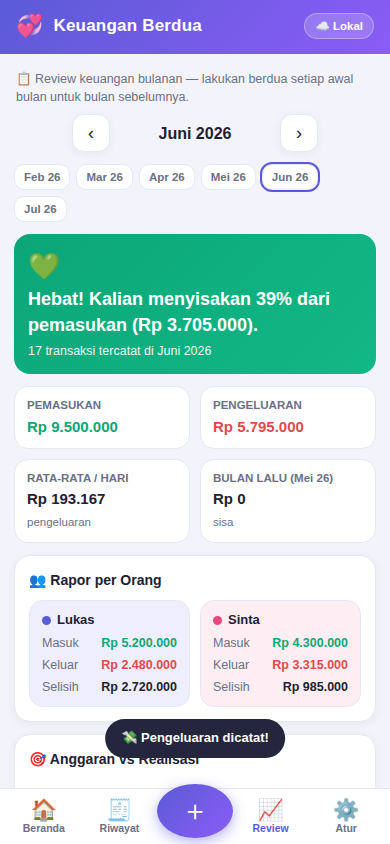
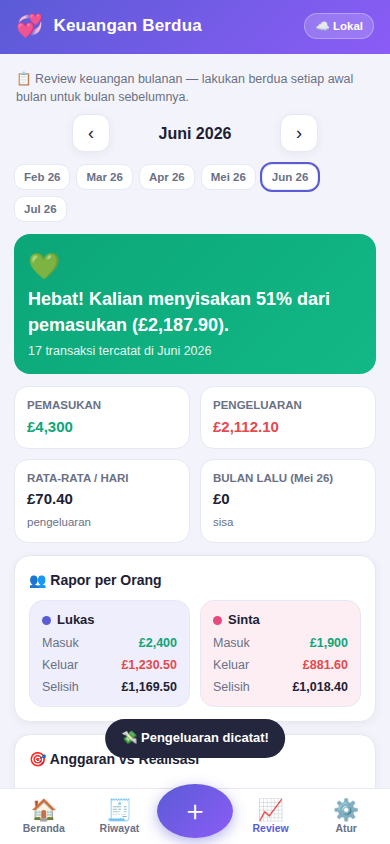
Switch Keuangan Berdua currency to pound sterling (GBP)
Amounts now display as £ with proper pence formatting (en-GB grouping,
two decimals shown only when fractional). The amount inputs accept
decimals, demo data uses realistic UK household figures, and the app
icon shows £. Currency is a synced setting (Atur → Profil) so a couple
can still switch to Rupiah; docs updated accordingly.

Claude-Session: https://claude.ai/code/session_014wkPnrCu6CWC52eXcwjijP

diff --git a/keuangan/index.html b/keuangan/index.html
@@ -236,9 +236,20 @@ a{color:var(--pri)}
    ===================================================================== */
 const $=s=>document.querySelector(s), $$=s=>[...document.querySelectorAll(s)];
 const esc=s=>String(s??'').replace(/[&<>"']/g,c=>({'&':'&amp;','<':'&lt;','>':'&gt;','"':'&quot;',"'":'&#39;'}[c]));
-const rp=n=>'Rp '+Math.round(Math.abs(Number(n)||0)).toLocaleString('id-ID');
+/* mata uang: £ (bawaan, dengan pence) atau Rp — bisa diganti di Atur → Profil */
+const CURS={GBP:{sym:'£', locale:'en-GB', dec:2}, IDR:{sym:'Rp ', locale:'id-ID', dec:0}};
+const cur=()=>CURS[(S.settings&&S.settings.currency)||'GBP']||CURS.GBP;
+const rp=n=>{const c=cur(), v=Math.abs(Number(n)||0), fr=c.dec>0&&Math.round(v*100)%100!==0;
+  return c.sym+v.toLocaleString(c.locale,{minimumFractionDigits:fr?2:0, maximumFractionDigits:c.dec});};
 const rpS=n=>(n<0?'−':'')+rp(n);
-const num=v=>Number(String(v).replace(/[^\d]/g,''))||0;
+const num=v=>{
+  const c=cur(), s=String(v);
+  if(c.dec===0) return Number(s.replace(/[^\d]/g,''))||0;
+  const n=parseFloat(s.replace(/[^\d.]/g,''));
+  return isFinite(n)&&n>0?Math.round(n*100)/100:0;
+};
+const amtStr=n=>{const c=cur(), v=Number(n)||0, fr=c.dec>0&&Math.round(v*100)%100!==0;
+  return v?v.toLocaleString(c.locale,{minimumFractionDigits:fr?2:0, maximumFractionDigits:c.dec}):'';};
 const MON=['Januari','Februari','Maret','April','Mei','Juni','Juli','Agustus','September','Oktober','November','Desember'];
 const DAY=['Minggu','Senin','Selasa','Rabu','Kamis','Jumat','Sabtu'];
 const pad=n=>String(n).padStart(2,'0');
@@ -272,10 +283,10 @@ function defaultCats(){return [
 /* ---------- state ---------- */
 const LSK='keuanganBerdua.v1';      // data bersama (ikut tersinkron)
 const LSL='keuanganBerdua.loc.v1';  // khusus perangkat ini (identitas HP)
-let S={ settings:{nameA:'Orang 1', nameB:'Orang 2', sync:{enabled:false, apiKey:'', projectId:'', coupleId:''}}, categories:defaultCats(), tx:[], reviews:{} };
+let S={ settings:{nameA:'Orang 1', nameB:'Orang 2', currency:'GBP', sync:{enabled:false, apiKey:'', projectId:'', coupleId:''}}, categories:defaultCats(), tx:[], reviews:{} };
 let L={ me:'a', deviceId:rid(8), setupDone:false };
 function load(){
-  try{const j=JSON.parse(localStorage.getItem(LSK)); if(j&&j.settings){S=j; S.tx=S.tx||[]; S.reviews=S.reviews||{}; S.categories=S.categories&&S.categories.length?S.categories:defaultCats(); S.settings.sync=S.settings.sync||{enabled:false,apiKey:'',projectId:'',coupleId:''};}}catch(e){}
+  try{const j=JSON.parse(localStorage.getItem(LSK)); if(j&&j.settings){S=j; S.tx=S.tx||[]; S.reviews=S.reviews||{}; S.categories=S.categories&&S.categories.length?S.categories:defaultCats(); S.settings.sync=S.settings.sync||{enabled:false,apiKey:'',projectId:'',coupleId:''}; S.settings.currency=S.settings.currency||'GBP';}}catch(e){}
   try{const j=JSON.parse(localStorage.getItem(LSL)); if(j&&j.deviceId)L=j;}catch(e){}
 }
 function save(){ localStorage.setItem(LSK, JSON.stringify(S)); }
@@ -489,7 +500,7 @@ function vReview(){
   // catatan review + tandai selesai
   h+=`<div class="card"><h2>✍ Catatan & Kesepakatan Review</h2>
     ${rv.done?`<div class="donebadge">✅ Review ${esc(mLabel(k))} selesai — ditandai oleh ${esc(nameOf(rv.by||'a'))}${rv.doneAt?', '+new Date(rv.doneAt).toLocaleDateString('id-ID',{day:'numeric',month:'short',year:'numeric'}):''}</div>`:''}
-    <textarea id="revNote" rows="4" placeholder="Tulis hasil diskusi kalian… contoh: 'Bulan depan jatah jajan kopi maks 300rb', 'Naikkan tabungan jadi 1,5jt'." oninput="revNote('${k}',this)">${esc(rv.note||'')}</textarea>
+    <textarea id="revNote" rows="4" placeholder="Tulis hasil diskusi kalian… contoh: 'Bulan depan jatah ngopi dikurangi separuh', 'Naikkan setoran tabungan bulanan'." oninput="revNote('${k}',this)">${esc(rv.note||'')}</textarea>
     <div style="margin-top:10px">${rv.done
       ?`<button class="btn ghost" onclick="revDone('${k}',true)">↩ Buka lagi review ini</button>`
       :`<button class="btn green" onclick="revDone('${k}',false)">✅ Tandai Review Selesai (oleh ${esc(nameOf(L.me))})</button>`}</div>
@@ -528,6 +539,13 @@ function vSet(){
         <button class="${L.me==='b'?'on':''}" onclick="setMe('b')">${esc(nameOf('b'))}</button>
       </div>
       <div class="tiny mut" style="margin-top:6px">Pilihan ini hanya untuk HP ini — di HP pasanganmu pilih nama yang satunya.</div>
+    </div>
+    <div class="field"><label>Mata uang</label>
+      <div class="seg">
+        <button class="${S.settings.currency!=='IDR'?'on':''}" onclick="setCur('GBP')">£ Poundsterling</button>
+        <button class="${S.settings.currency==='IDR'?'on':''}" onclick="setCur('IDR')">Rp Rupiah</button>
+      </div>
+      <div class="tiny mut" style="margin-top:6px">Berlaku untuk kalian berdua (ikut tersinkron). Nominal yang sudah tercatat tidak dikonversi otomatis.</div>
     </div>
   </div>
 
@@ -579,6 +597,7 @@ window.saveNames=()=>{
   save(); queueSync('settings'); render();
 };
 window.setMe=w=>{ L.me=w; saveL(); render(); toast('HP ini sekarang milik '+nameOf(w)); };
+window.setCur=c=>{ S.settings.currency=c; save(); queueSync('settings'); render(); toast('Mata uang: '+(c==='IDR'?'Rupiah (Rp)':'Poundsterling (£)')); };
 window.copyCid=()=>{
   const v=$('#syCid').value.trim(); if(!v) return toast('Belum ada ID.');
   (navigator.clipboard?navigator.clipboard.writeText(v):Promise.reject()).then(()=>toast('📋 ID disalin — kirim ke pasanganmu.'),()=>toast('Salin manual: '+v));
@@ -605,8 +624,8 @@ function drawTxModal(){
     <button class="${MT.type==='out'?'on tout':''}" onclick="mtType('out')">💸 Pengeluaran</button>
     <button class="${MT.type==='in'?'on tin':''}" onclick="mtType('in')">💰 Pemasukan</button>
   </div>
-  <div class="field"><input id="mtAmt" class="amount" inputmode="numeric" placeholder="0"
-    value="${MT.amount?Number(MT.amount).toLocaleString('id-ID'):''}" oninput="fmtAmt(this)"></div>
+  <div class="field"><input id="mtAmt" class="amount" inputmode="${cur().dec?'decimal':'numeric'}" placeholder="${cur().sym.trim()} 0"
+    value="${amtStr(MT.amount)}" oninput="fmtAmt(this)"></div>
   <div class="field"><label>Kategori</label><div class="catgrid" id="mtCats"></div></div>
   <div class="grid2">
     <div class="field"><label>Tanggal</label><input type="date" id="mtDate" value="${esc(MT.date)}"></div>
@@ -632,7 +651,17 @@ window.mtType=t=>{ MT.type=t; keepMt(); drawTxModal(); };
 window.mtWho=w=>{ MT.who=w; keepMt(); drawTxModal(); };
 window.mtCat=id=>{ MT.catId=id; drawMtCats(); };
 function keepMt(){ MT.amount=num($('#mtAmt').value); MT.date=$('#mtDate').value; MT.note=$('#mtNote').value; }
-window.fmtAmt=el=>{ const d=el.value.replace(/[^\d]/g,''); el.value=d?Number(d).toLocaleString('id-ID'):''; };
+window.fmtAmt=el=>{
+  const c=cur();
+  if(c.dec===0){ const d=el.value.replace(/[^\d]/g,''); el.value=d?Number(d).toLocaleString(c.locale):''; return; }
+  // £: izinkan satu titik desimal (maks 2 angka pence), beri pemisah ribuan pada bagian bulat
+  let v=el.value.replace(/[^\d.]/g,'');
+  const i=v.indexOf('.');
+  if(i>=0) v=v.slice(0,i+1)+v.slice(i+1).replace(/\./g,'').slice(0,2);
+  const p=v.split('.');
+  p[0]=p[0]?Number(p[0]).toLocaleString('en-GB'):'';
+  el.value=p.length>1?p[0]+'.'+p[1]:p[0];
+};
 window.saveTx=()=>{
   const amount=num($('#mtAmt').value);
   if(amount<=0) return toast('Isi dulu nominalnya ya 🙏');
@@ -677,8 +706,8 @@ function drawCatModal(c){
     <div class="field"><label>Emoji ikon</label><input id="mcIcon" value="${esc(c?c.icon:'🏷')}" maxlength="4"></div>
     <div class="field"><label>Nama kategori</label><input id="mcName" value="${esc(c?c.name:'')}" placeholder="cth: Kopi & Nongkrong"></div>
   </div>
-  <div class="field" style="${MC.type==='in'?'display:none':''}"><label>Anggaran per bulan (Rp, 0 = tanpa anggaran)</label>
-    <input id="mcBud" inputmode="numeric" value="${c&&c.budget?Number(c.budget).toLocaleString('id-ID'):''}" placeholder="cth: 1.500.000" oninput="fmtAmt(this)"></div>
+  <div class="field" style="${MC.type==='in'?'display:none':''}"><label>Anggaran per bulan (${cur().sym.trim()}, kosong = tanpa anggaran)</label>
+    <input id="mcBud" inputmode="${cur().dec?'decimal':'numeric'}" value="${amtStr(c?c.budget:0)}" placeholder="${cur().dec?'cth: 1,500':'cth: 1.500.000'}" oninput="fmtAmt(this)"></div>
   <button class="btn" onclick="saveCat()">💾 Simpan</button>
   ${c?`<button class="btn danger" style="margin-top:8px" onclick="delCat('${esc(c.id)}')" ${used?'disabled title="Masih dipakai transaksi"':''}>🗑 Hapus kategori${used?' (masih dipakai transaksi)':''}</button>`:''}`;
 }
@@ -801,7 +830,7 @@ function pushKV(id){
   let data;
   if(id==='categories') data=S.categories;
   else if(id==='reviews') data=S.reviews;
-  else if(id==='settings') data={nameA:S.settings.nameA, nameB:S.settings.nameB};
+  else if(id==='settings') data={nameA:S.settings.nameA, nameB:S.settings.nameB, currency:S.settings.currency};
   SYNC.db.doc(kvPath(id)).set({j:JSON.stringify(data), dev:L.deviceId, at:Date.now()})
     .then(()=>setSyncBadge('on'))
     .catch(e=>setSyncBadge('err','☁ Gagal kirim: '+e.message));
@@ -828,7 +857,7 @@ function listenCloud(){
       if(val==null) return;
       const id=ch.doc.id;
       if(id==='categories'){ S.categories=val; changed=true; }
-      else if(id==='settings'){ Object.assign(S.settings,{nameA:val.nameA??S.settings.nameA, nameB:val.nameB??S.settings.nameB}); changed=true; }
+      else if(id==='settings'){ Object.assign(S.settings,{nameA:val.nameA??S.settings.nameA, nameB:val.nameB??S.settings.nameB, currency:val.currency??S.settings.currency}); changed=true; }
       else if(id==='reviews'){
         for(const k in val){ const cur=S.reviews[k]; if(!cur||(val[k].at||0)>=(cur.at||0)) S.reviews[k]=val[k]; }
         changed=true;
@@ -865,7 +894,7 @@ function remoteRefresh(){
 /* ---------- ekspor / impor / demo / hapus ---------- */
 window.exportJson=()=>{
   const data={app:'keuangan-berdua', version:1, exportedAt:new Date().toISOString(),
-    settings:{nameA:S.settings.nameA, nameB:S.settings.nameB},
+    settings:{nameA:S.settings.nameA, nameB:S.settings.nameB, currency:S.settings.currency},
     categories:S.categories, tx:S.tx, reviews:S.reviews};
   const blob=new Blob([JSON.stringify(data,null,2)],{type:'application/json'});
   const a=document.createElement('a');
@@ -883,7 +912,7 @@ window.importJson=inp=>{
       if(!Array.isArray(d.tx)||!Array.isArray(d.categories)) throw new Error('format tidak dikenal');
       if(!confirm('Impor akan MENGGANTI data di HP ini dengan isi file ('+d.tx.length+' transaksi). Lanjutkan?')) return;
       S.categories=d.categories; S.tx=d.tx; S.reviews=d.reviews||{};
-      if(d.settings){ S.settings.nameA=d.settings.nameA||S.settings.nameA; S.settings.nameB=d.settings.nameB||S.settings.nameB; }
+      if(d.settings){ S.settings.nameA=d.settings.nameA||S.settings.nameA; S.settings.nameB=d.settings.nameB||S.settings.nameB; S.settings.currency=d.settings.currency||S.settings.currency; }
       save(); render(); toast('⬆ Data berhasil diimpor.');
       if(SYNC.on) pushAllToCloud();
     }catch(e){ toast('❌ File tidak valid: '+e.message); }
@@ -909,45 +938,46 @@ window.wipeAll=async()=>{
 };
 window.fillDemo=()=>{
   if(S.tx.length&&!confirm('Tambahkan data contoh ke catatan yang sudah ada?')) return;
-  const cur=mkeyNow(), prv=mAdd(cur,-1);
+  const cur_=mkeyNow(), prv=mAdd(cur_,-1);
   const D=(mk,day)=>mk+'-'+pad(day);
+  const A=(gbp,idr)=>cur().dec>0?gbp:idr; // nominal contoh mengikuti mata uang aktif
   const mk=(date,type,catId,who,amount,note)=>({id:'demo-'+rid(8), date, type, catId, who, amount, note, at:Date.now()});
   const demo=[
     // bulan lalu (lengkap — bahan untuk review)
-    mk(D(prv,1),'in','gaji','a',5200000,'Gaji bulanan'),
-    mk(D(prv,1),'in','gaji','b',4300000,'Gaji bulanan'),
-    mk(D(prv,2),'out','rumah','a',1500000,'Sewa kontrakan'),
-    mk(D(prv,3),'out','nabung','b',1000000,'Transfer tabungan bersama'),
-    mk(D(prv,4),'out','tagihan','b',350000,'Listrik & air'),
-    mk(D(prv,5),'out','tagihan','a',150000,'Paket data 2 HP'),
-    mk(D(prv,6),'out','belanja','b',480000,'Belanja mingguan'),
-    mk(D(prv,9),'out','makan','a',85000,'Makan di luar'),
-    mk(D(prv,12),'out','transport','a',200000,'Bensin motor'),
-    mk(D(prv,13),'out','belanja','b',450000,'Belanja mingguan'),
-    mk(D(prv,15),'out','hiburan','b',120000,'Nonton bioskop'),
-    mk(D(prv,18),'out','sehat','a',95000,'Obat & vitamin'),
-    mk(D(prv,20),'out','belanja','b',430000,'Belanja mingguan'),
-    mk(D(prv,22),'out','makan','b',65000,'Jajan kopi'),
-    mk(D(prv,25),'out','keluarga','a',300000,'Kado orang tua'),
-    mk(D(prv,27),'out','belanja','b',420000,'Belanja mingguan'),
-    mk(D(prv,28),'out','hiburan','a',150000,'Makan malam berdua'),
+    mk(D(prv,1),'in','gaji','a',A(2400,5200000),'Gaji bulanan'),
+    mk(D(prv,1),'in','gaji','b',A(1900,4300000),'Gaji bulanan'),
+    mk(D(prv,2),'out','rumah','a',A(950,1500000),'Sewa rumah'),
+    mk(D(prv,3),'out','nabung','b',A(400,1000000),'Transfer tabungan bersama'),
+    mk(D(prv,4),'out','tagihan','b',A(120,350000),'Listrik & air'),
+    mk(D(prv,5),'out','tagihan','a',A(40,150000),'Paket data 2 HP'),
+    mk(D(prv,6),'out','belanja','b',A(86.50,480000),'Belanja mingguan'),
+    mk(D(prv,9),'out','makan','a',A(28,85000),'Makan di luar'),
+    mk(D(prv,12),'out','transport','a',A(60,200000),'Bensin'),
+    mk(D(prv,13),'out','belanja','b',A(81.20,450000),'Belanja mingguan'),
+    mk(D(prv,15),'out','hiburan','b',A(30,120000),'Nonton bioskop'),
+    mk(D(prv,18),'out','sehat','a',A(22.50,95000),'Obat & vitamin'),
+    mk(D(prv,20),'out','belanja','b',A(78.40,430000),'Belanja mingguan'),
+    mk(D(prv,22),'out','makan','b',A(9.50,65000),'Jajan kopi'),
+    mk(D(prv,25),'out','keluarga','a',A(75,300000),'Kado orang tua'),
+    mk(D(prv,27),'out','belanja','b',A(76,420000),'Belanja mingguan'),
+    mk(D(prv,28),'out','hiburan','a',A(55,150000),'Makan malam berdua'),
     // bulan berjalan
-    mk(D(cur,1),'in','gaji','a',5200000,'Gaji bulanan'),
-    mk(D(cur,1),'in','gaji','b',4300000,'Gaji bulanan'),
-    mk(D(cur,2),'out','rumah','a',1500000,'Sewa kontrakan'),
-    mk(D(cur,3),'out','nabung','b',1200000,'Transfer tabungan bersama'),
-    mk(D(cur,4),'out','tagihan','b',340000,'Listrik & air'),
-    mk(D(cur,6),'out','belanja','b',470000,'Belanja mingguan'),
-    mk(D(cur,8),'out','transport','a',150000,'Bensin motor'),
-    mk(D(cur,10),'out','makan','a',75000,'Makan siang kantor'),
-    mk(D(cur,13),'out','belanja','b',455000,'Belanja mingguan'),
-    mk(D(cur,15),'out','hiburan','b',90000,'Jajan weekend'),
+    mk(D(cur_,1),'in','gaji','a',A(2400,5200000),'Gaji bulanan'),
+    mk(D(cur_,1),'in','gaji','b',A(1900,4300000),'Gaji bulanan'),
+    mk(D(cur_,2),'out','rumah','a',A(950,1500000),'Sewa rumah'),
+    mk(D(cur_,3),'out','nabung','b',A(450,1200000),'Transfer tabungan bersama'),
+    mk(D(cur_,4),'out','tagihan','b',A(115,340000),'Listrik & air'),
+    mk(D(cur_,6),'out','belanja','b',A(83.70,470000),'Belanja mingguan'),
+    mk(D(cur_,8),'out','transport','a',A(45,150000),'Bensin'),
+    mk(D(cur_,10),'out','makan','a',A(14.50,75000),'Makan siang kantor'),
+    mk(D(cur_,13),'out','belanja','b',A(79.90,455000),'Belanja mingguan'),
+    mk(D(cur_,15),'out','hiburan','b',A(25,90000),'Jajan weekend'),
   ].filter(t=>t.date<=todayStr()||t.date.slice(0,7)===prv);
   S.tx.push(...demo);
   // contoh anggaran
   const setBud=(id,v)=>{const c=S.categories.find(x=>x.id===id); if(c&&!c.budget)c.budget=v;};
-  setBud('makan',400000); setBud('belanja',2000000); setBud('transport',400000);
-  setBud('tagihan',600000); setBud('hiburan',300000); setBud('nabung',1500000);
+  setBud('makan',A(150,400000)); setBud('belanja',A(400,2000000)); setBud('transport',A(120,400000));
+  setBud('tagihan',A(200,600000)); setBud('hiburan',A(120,300000)); setBud('nabung',A(500,1500000));
   save(); queueSync('categories');
   if(SYNC.on) for(const t of demo) pushTxCloud(t);
   render(); toast('🎬 Data contoh dimuat — jelajahi Beranda, Riwayat, dan Review!');

diff --git a/README.md b/README.md
@@ -1,6 +1,7 @@
 > 💞 **Baru:** [**Keuangan Berdua**](keuangan/) — aplikasi catatan keuangan bulanan untuk **dua
-> orang dengan dua HP**, lengkap dengan anggaran per kategori, sinkronisasi real-time, dan
-> **review setiap bulan**. Panduan: [keuangan/PANDUAN_KEUANGAN.md](keuangan/PANDUAN_KEUANGAN.md).
+> orang dengan dua HP**, dalam **poundsterling (£)**, lengkap dengan anggaran per kategori,
+> sinkronisasi real-time, dan **review setiap bulan**.
+> Panduan: [keuangan/PANDUAN_KEUANGAN.md](keuangan/PANDUAN_KEUANGAN.md).
 
 # 🍽 Warung COGS — Kalkulator HPP & Kasir Restoran
 

diff --git a/keuangan/PANDUAN_KEUANGAN.md b/keuangan/PANDUAN_KEUANGAN.md
@@ -32,6 +32,11 @@ Saat pertama dibuka, aplikasi menanyakan:
 
 Semua ini bisa diubah kapan saja lewat **Atur → Profil Berdua**.
 
+**Mata uang bawaannya poundsterling (£)** lengkap dengan pence (misal £12.50). Kalau kalian ingin
+memakai Rupiah, ganti di **Atur → Profil Berdua → Mata uang** — pilihan ini berlaku untuk kedua HP
+(ikut tersinkron). Nominal yang sudah tercatat tidak dikonversi otomatis, jadi tentukan mata uangnya
+sejak awal.
+
 ## 3. Mencatat Keuangan Sehari-hari
 
 - Tekan tombol **＋** besar di tengah bawah.
